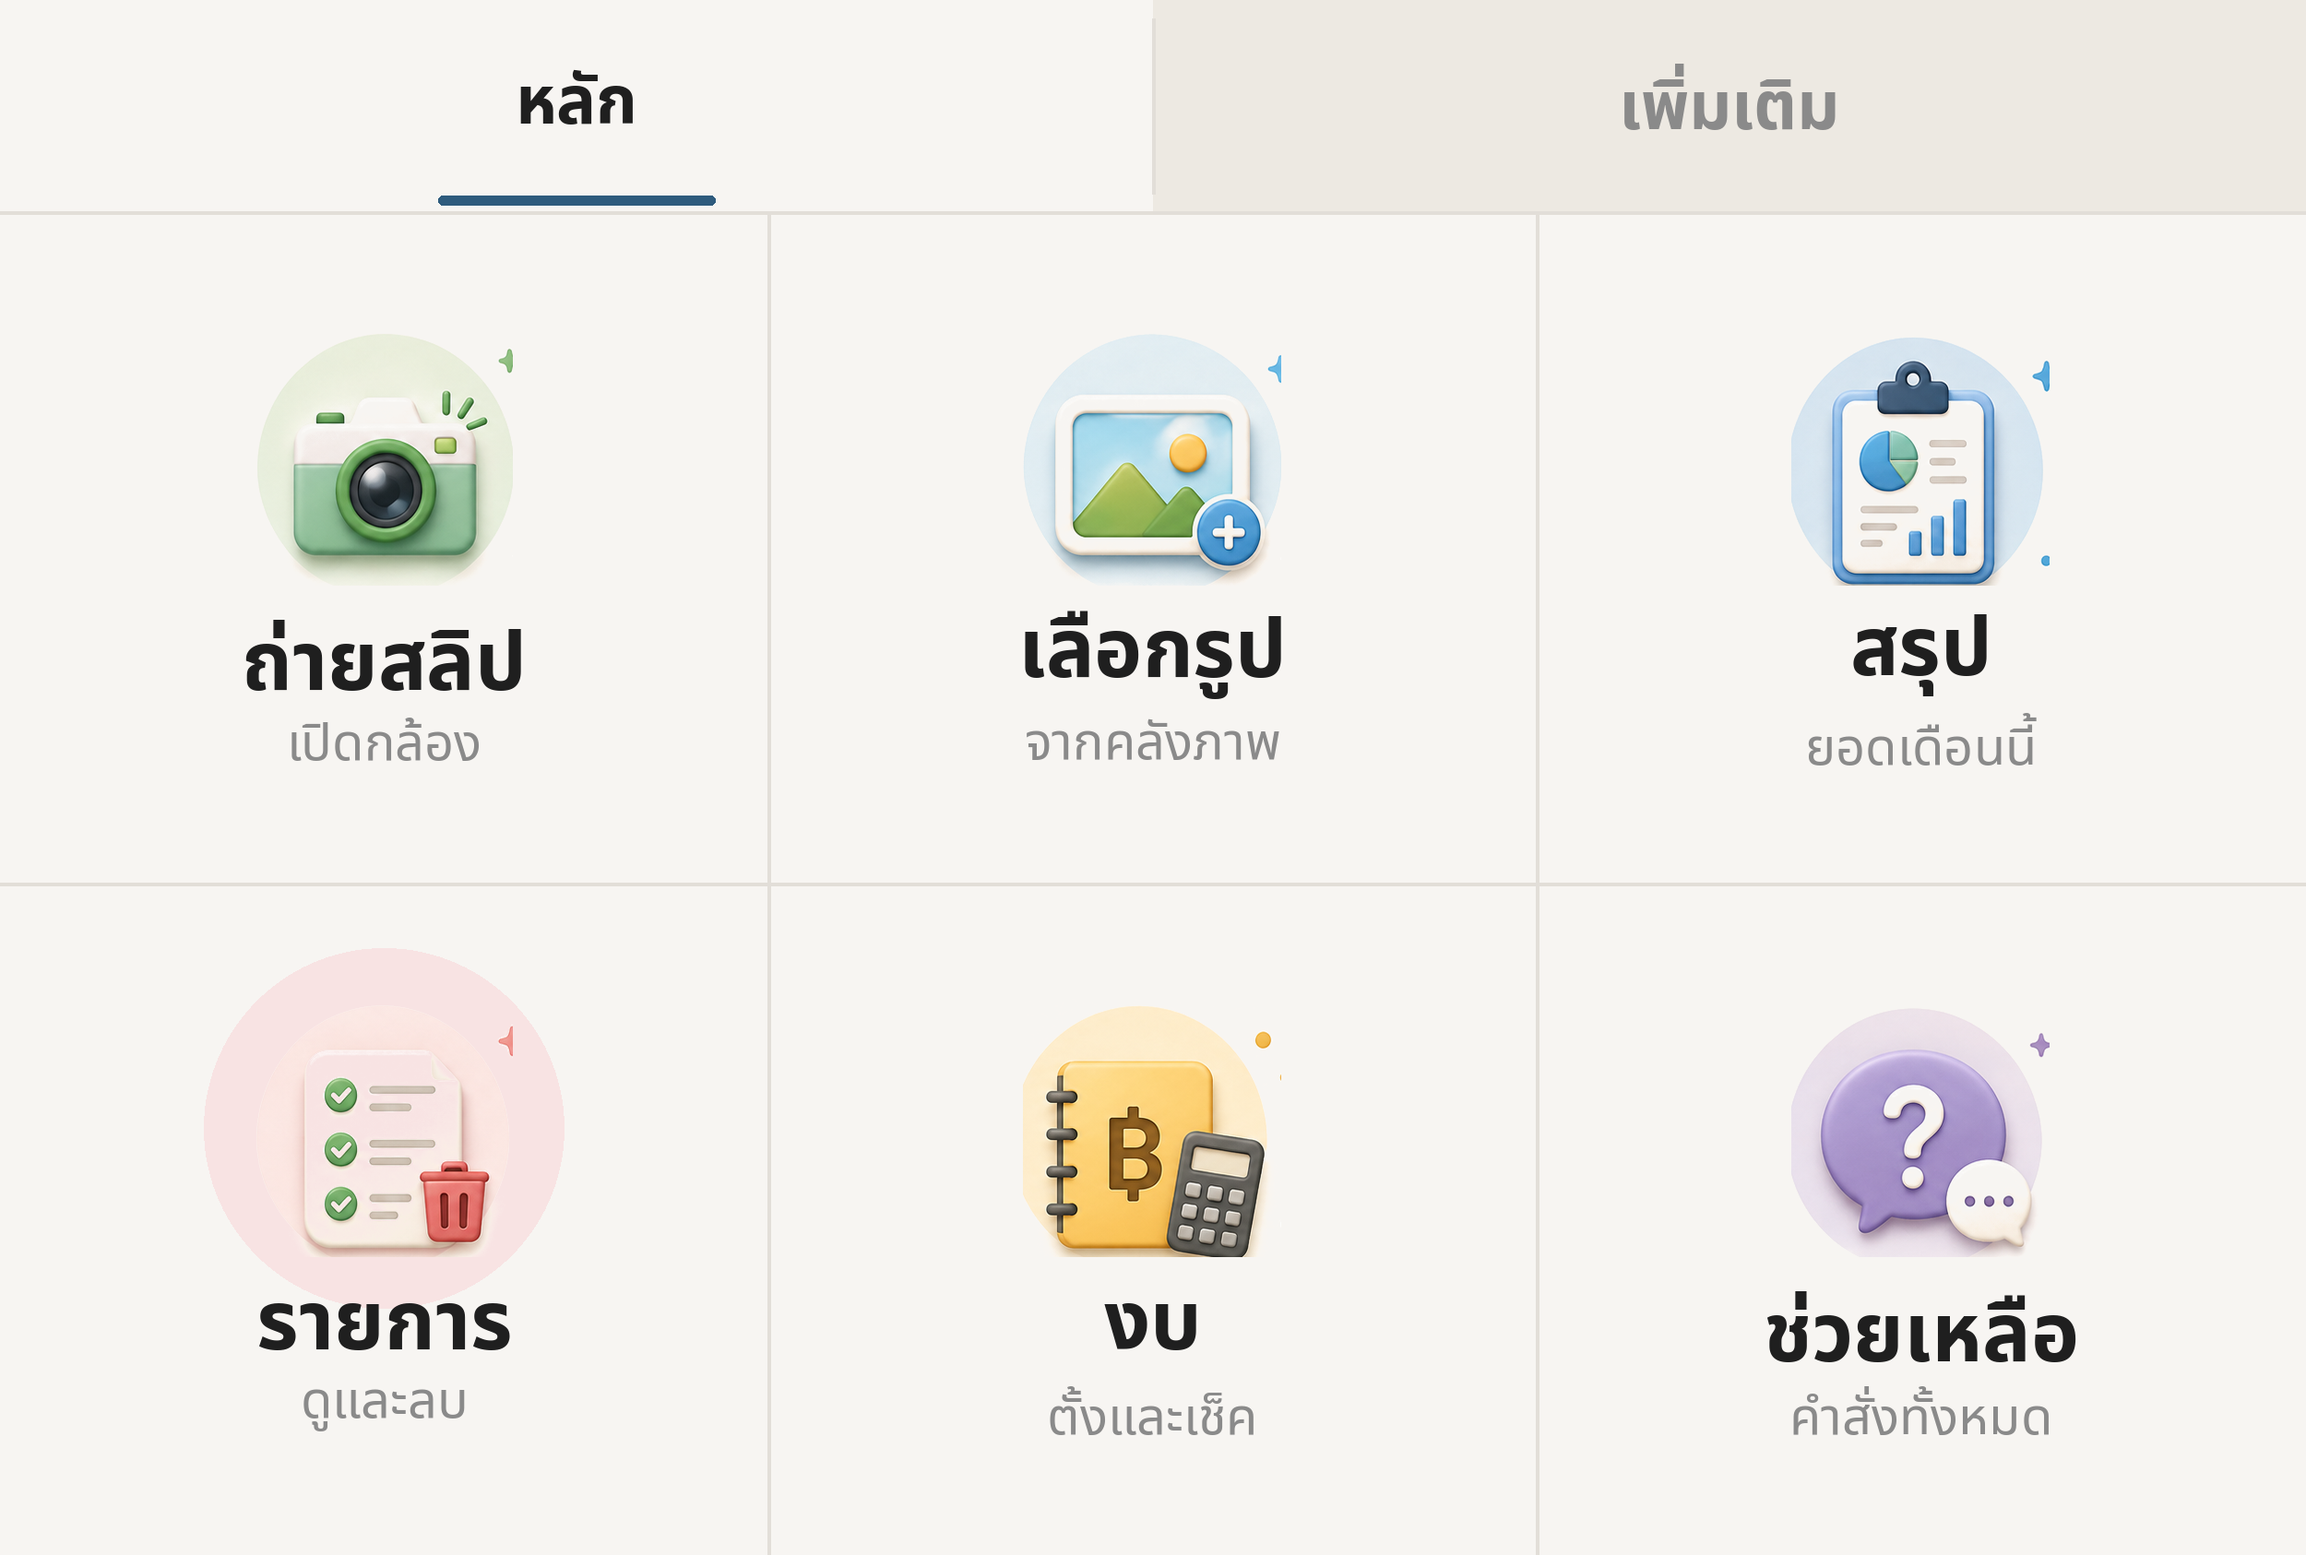
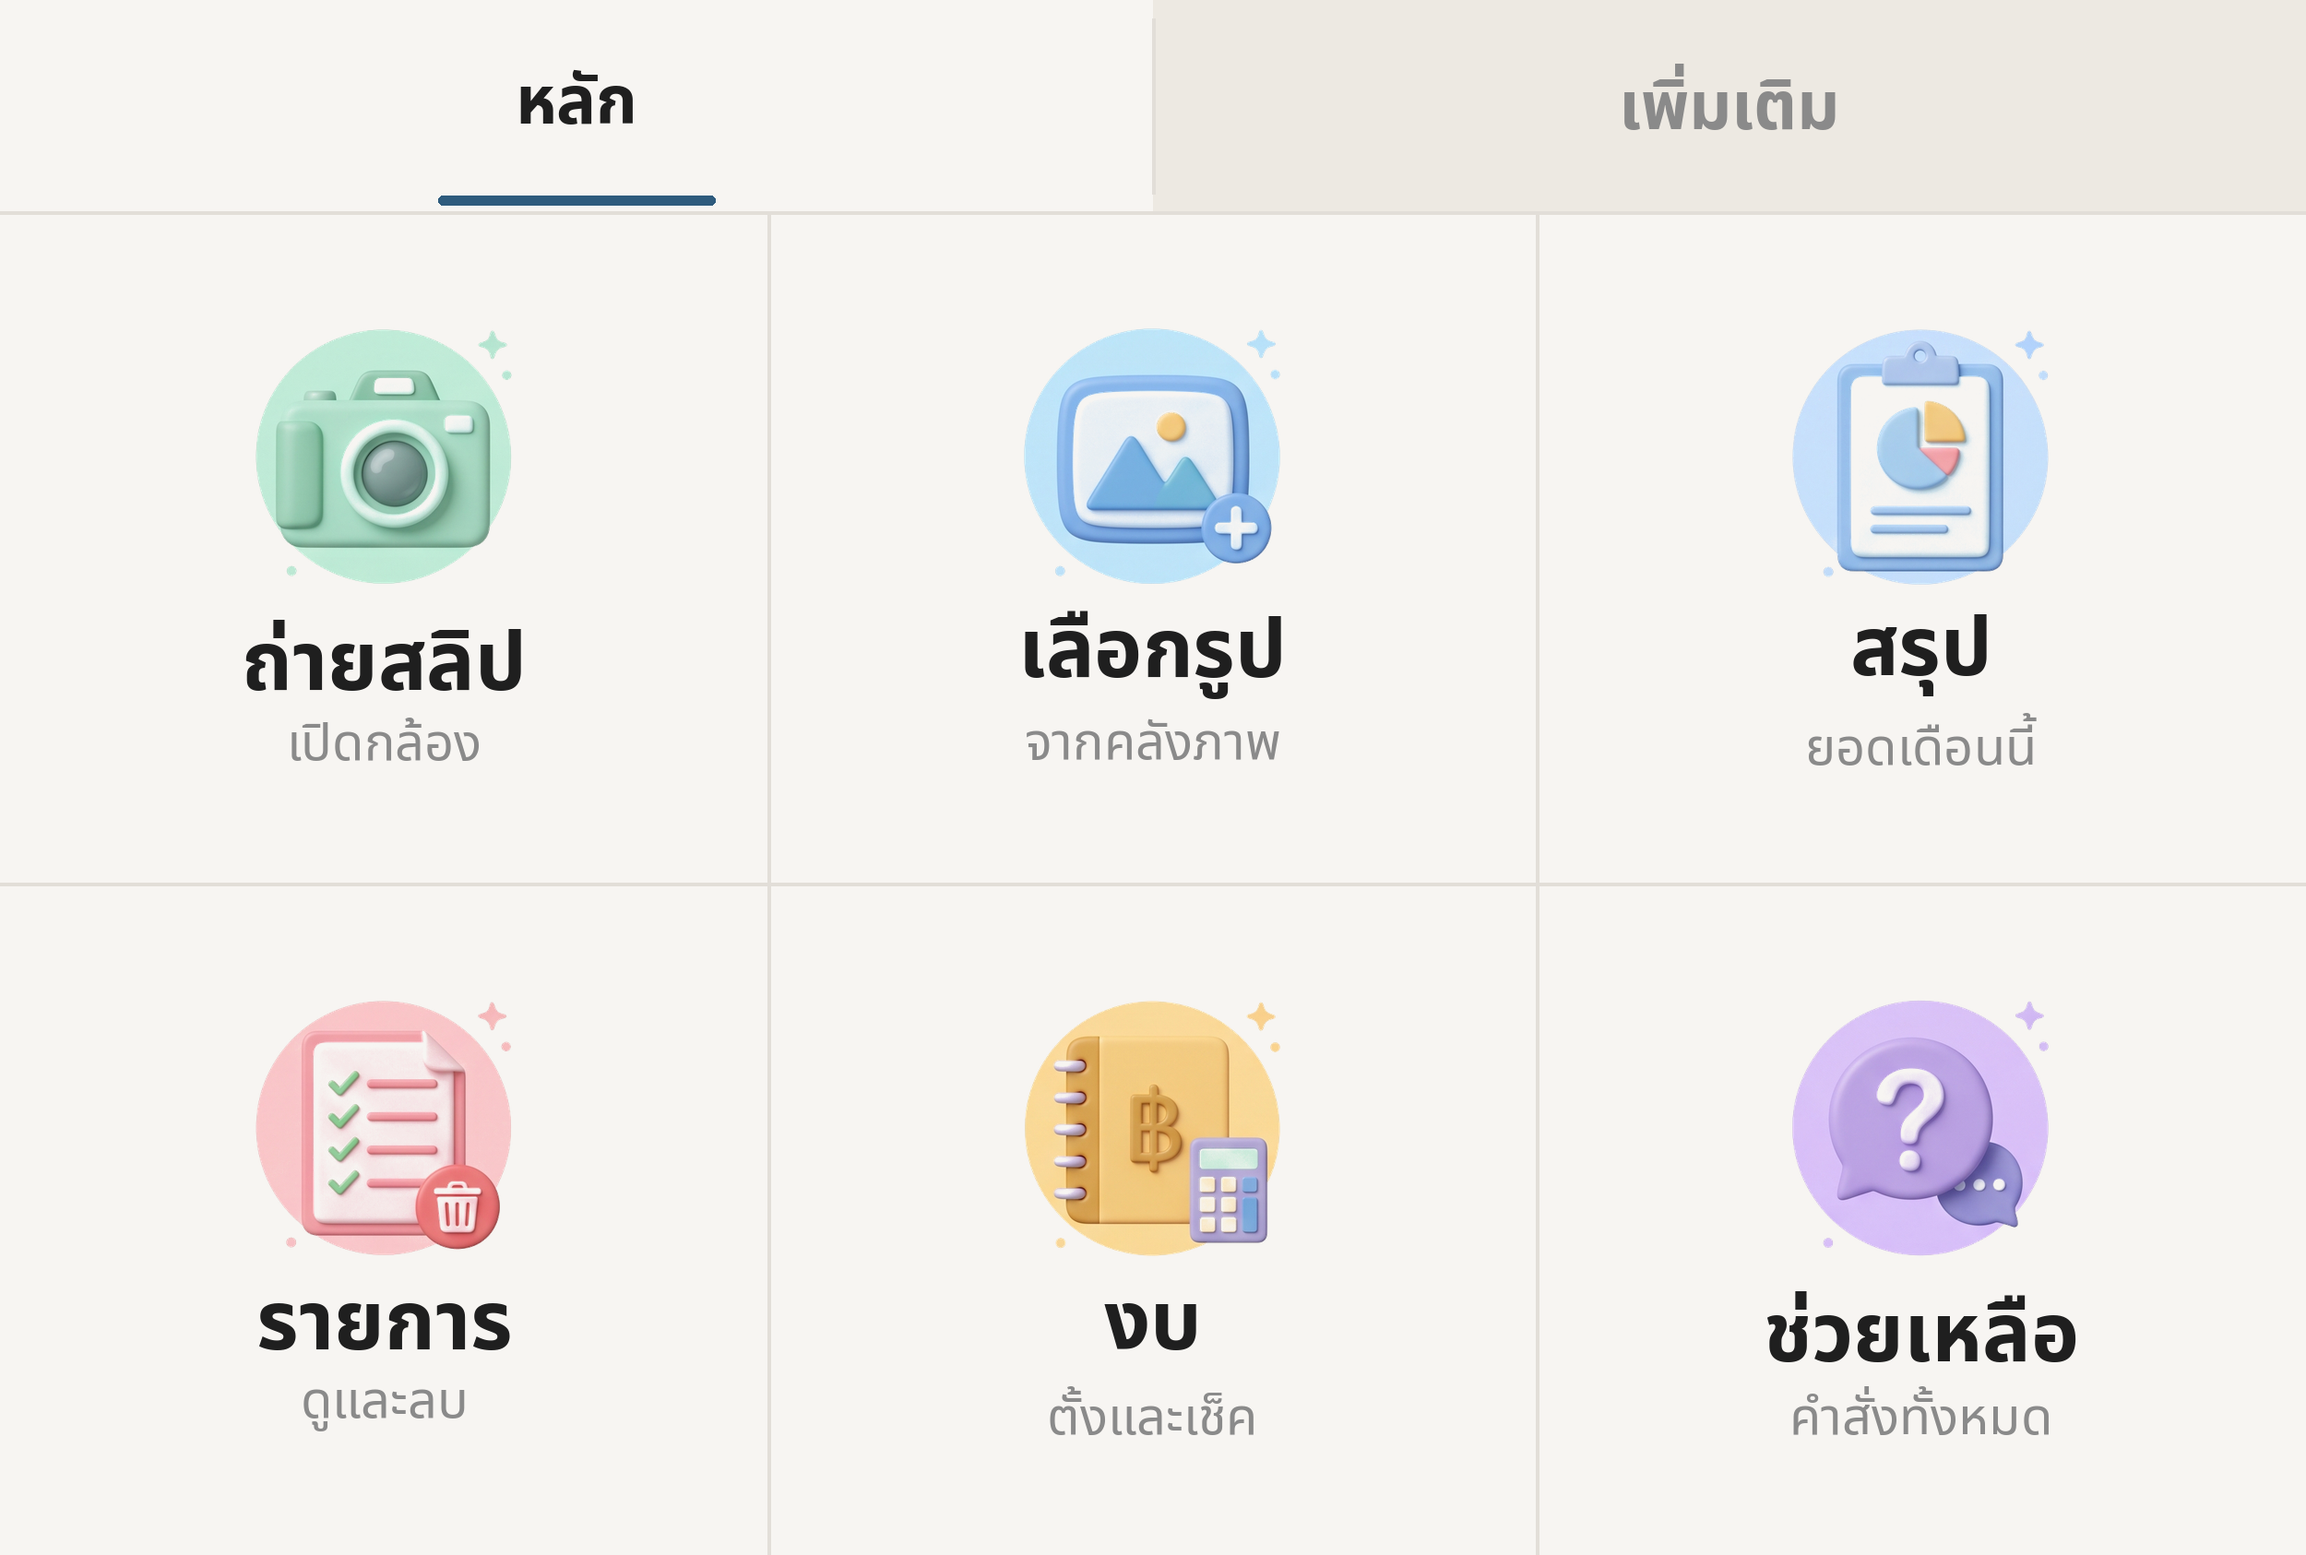
feat(richmenu): ไอคอนชุดใหม่ทั้ง 16 อัน ขึ้นเมนูจริงแล้ว
แผ่น icon-set-01.jpeg (2048x2048, 4x4) ที่ได้จาก PROMPT.md ออกมาตรงลำดับครบ 16 ช่อง
ไม่มีตัวหนังสือหลุด พื้นสีเรียบตามที่สั่ง → ตัด → ประกอบ → ขึ้น LINE ครบทั้งสองหน้า

แก้ brings_own_background() — วัดผิดที่
  เดิมวัดสัดส่วนพิกเซลทึบทั้งกรอบ ได้ 43-67% ซึ่งแยกไม่ออกว่าไอคอนมีวงของตัวเอง
  หรือเปล่า ผลคือวาดวงพาสเทลซ้อนใต้วงที่ไอคอนมีอยู่แล้ว เห็นเป็นวงสองสีชัดเจน
  ("สรุป" วงฟ้าบนวงเหลือง)
  ต้นเหตุ: sparkle กระจายอยู่ไกลจากตัววง กรอบหลังครอปเลยใหญ่กว่าวงจริงมาก
  แก้เป็นวัดเฉพาะ *ภายในวงกลมกลางภาพ* ได้ 62-100% แยกออกชัด
  เพิ่ม RICHMENU_HALO=on|off ไว้บังคับ เผื่อฮิวริสติกเดาพลาดกับไอคอนชุดอื่น

STYLE-REF.png อัปเดตเป็นชุดใหม่ (ของเดิมเป็นไอคอนที่เลิกใช้แล้ว)
เก็บ extra-1..4 (กระปุกออมสิน แว่นขยายบนใบเสร็จ กระดิ่ง กุญแจ) ไว้ใช้ทีหลัง

diff --git a/scripts/richmenu_compose.py b/scripts/richmenu_compose.py
@@ -102,16 +102,27 @@ def prep_icon(path):
 
 
 def brings_own_background(ic):
-    """ไอคอนมีพื้นหลังของตัวเองแล้วหรือยัง — ถ้ามี อย่าวาดวงพาสเทลซ้อนให้ซ้ำซ้อน
+    """ไอคอนมีวงพื้นหลังของตัวเองแล้วหรือยัง — ถ้ามี อย่าวาดวงพาสเทลซ้อนให้ซ้ำซ้อน
 
-    (ไอคอนที่ตัดมาจากงานออกแบบมักติดวงกลมพาสเทลของตัวเองมาด้วย
-    วาดวงของเราทับอีกชั้นจะกลายเป็นวงซ้อนวงคนละสี)
+    วัดสัดส่วนพิกเซลทึบ **ภายในวงกลมกลางภาพ** ไม่ใช่ทั้งกรอบ
+    เพราะไอคอนพวกนี้มี sparkle กระจายอยู่ไกลจากตัววง ทำให้กรอบหลังครอปใหญ่กว่าวงจริง
+    ถ้าวัดทั้งกรอบจะได้แค่ 43-67% แยกไม่ออก แต่วัดในวงได้ 62-100% ซึ่งแยกออกชัด
+
+    บังคับได้ด้วย RICHMENU_HALO=on|off เผื่อฮิวริสติกเดาพลาด
     """
-    if ic.mode != "RGBA":
+    force = os.environ.get("RICHMENU_HALO", "auto")
+    if force == "on":
+        return False
+    if force == "off" or ic.mode != "RGBA":
         return True                       # ทึบทั้งแผ่น = มีพื้นของตัวเองแน่นอน
-    a = ic.getchannel("A")
+
+    w, h = ic.size
+    r = min(w, h) * 0.45
+    mask = Image.new("L", (w, h), 0)
+    ImageDraw.Draw(mask).ellipse([w / 2 - r, h / 2 - r, w / 2 + r, h / 2 + r], fill=255)
+    inside = ImageChops.multiply(ic.getchannel("A"), mask)
     # histogram เร็วกว่าไล่ทีละพิกเซล และไม่ต้องพึ่ง API ที่ Pillow กำลังจะเลิกใช้
-    return sum(a.histogram()[201:]) > 0.55 * ic.width * ic.height
+    return sum(inside.histogram()[201:]) > 0.55 * sum(mask.histogram()[201:])
 
 
 def compose(page, cells, fonts, f_tab):

diff --git a/assets/icons/PROMPT.md b/assets/icons/PROMPT.md
@@ -21,10 +21,16 @@
 
 ## แนบรูปอ้างอิงด้วย (ถ้าอยากคงสไตล์เดิม)
 
-`assets/icons/STYLE-REF.png` — ไอคอนชุดที่ใช้อยู่ตอนนี้
+| ไฟล์ | คืออะไร |
+|---|---|
+| `assets/icons/icon-set-01.jpeg` | **แผ่นต้นฉบับ** ที่ prompt นี้ผลิตออกมาจริง 16 อัน 2048×2048 |
+| `assets/icons/STYLE-REF.png` | ย่อเหลือ 6 อันของหน้าหลัก แนบง่ายกว่า |
 
 แนบไปเป็น style reference ได้ผลกว่าบรรยายสไตล์ยาว ๆ มาก
 **ถ้าอยากได้สไตล์ใหม่ไปเลยก็ไม่ต้องแนบ** แค่แก้ย่อหน้า STYLE ใน prompt
+
+> prompt ก้อนล่างนี้ใช้ผลิต `icon-set-01.jpeg` มาแล้วจริง ทั้ง 16 ช่องออกมาตรงลำดับ
+> ไม่มีตัวหนังสือหลุด และพื้นเป็นสีเรียบตามสั่ง — ใช้ซ้ำได้เลย
 
 ---
 
